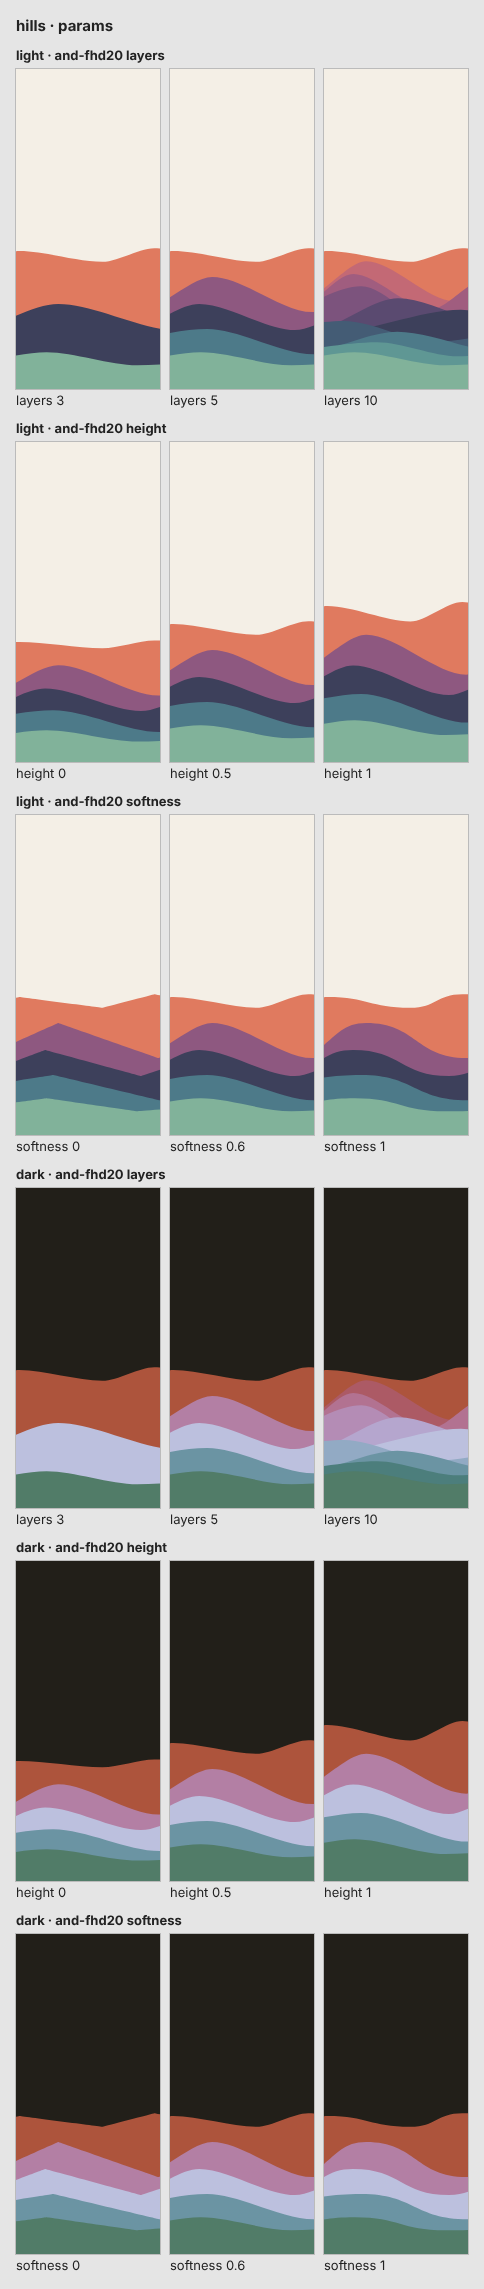
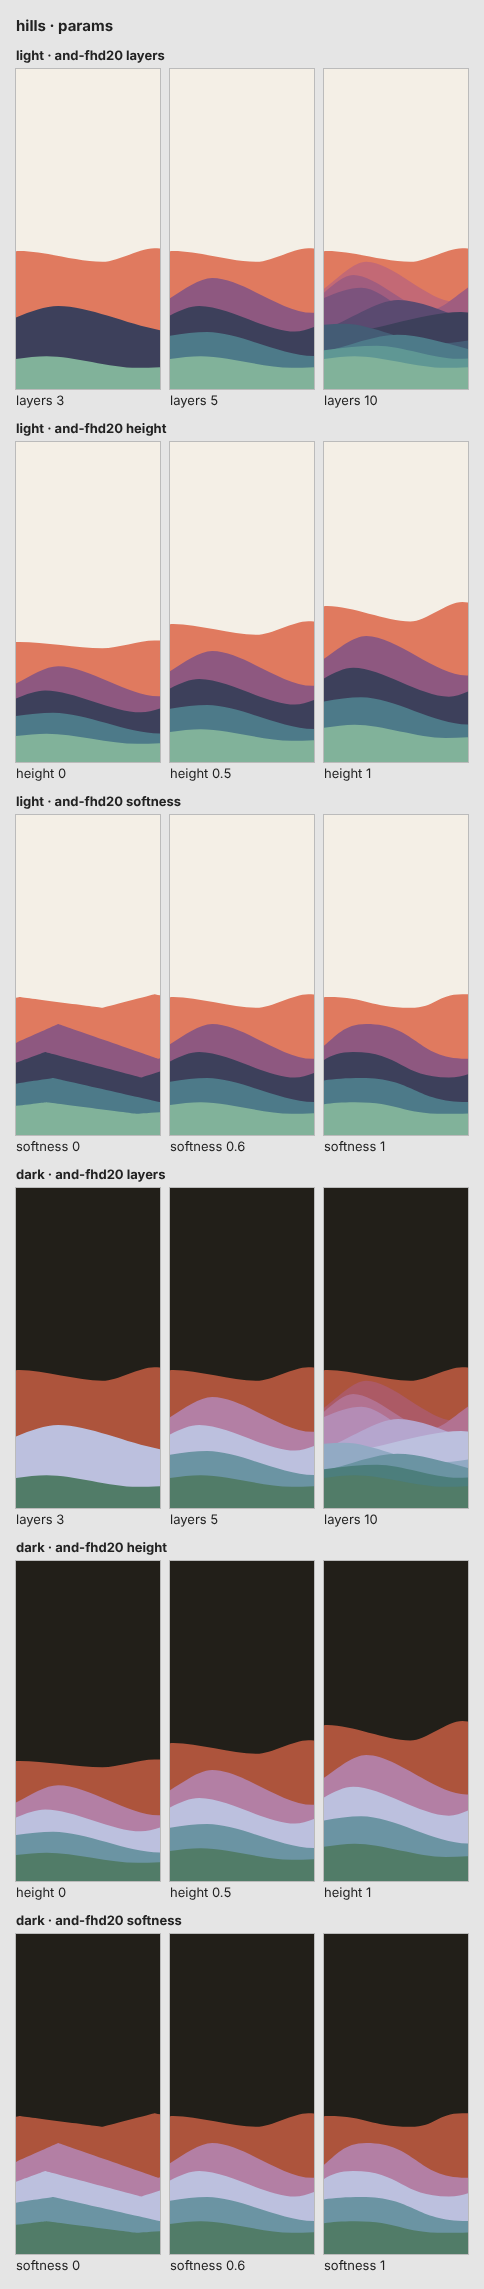
docs: update hills report and previews for FRONT_MAX 0.6 (PAT-10)
Re-measured seed variation on the 6 presets and at layers 3, front layer
coverage before and after, render times and file sizes, and regenerated
the three preview sheets. The report explains why two tests changed.

Claude-Session: https://claude.ai/code/session_019My7VFfQ18fX6NA4GWVR8x

diff --git a/docs/laporan/hills/laporan-hills.md b/docs/laporan/hills/laporan-hills.md
@@ -1,11 +1,13 @@
 # Laporan: pola `hills` (PAT-01)
 
-Draft PR: https://github.com/faljourney/falette/pull/7 (branch `claude/intelligent-newton-pt3d7g`, 5 commit dari main `853a835`). Semua rekomendasi di rencana disetujui:
+Draft PR: https://github.com/faljourney/falette/pull/7 (branch `claude/intelligent-newton-pt3d7g`, 7 commit dari main `853a835`). Semua rekomendasi di rencana disetujui:
 
 1. `softness` = kebulatan bentuk.
 2. Batas 30% berlaku di semua kanvas.
 3. Batas variasi seed khusus hills.
 4. Skrip pratinjau diperluas.
+
+Setelah meninjau pratinjau pertama, FaL meminta `FRONT_MAX` diturunkan dari 0,75 ke 0,6. Semua angka di laporan ini sudah mengikuti nilai 0,6; perbandingan sebelum dan sesudahnya ada di bagian [Revisi](#revisi-setelah-pratinjau-front_max-075--06).
 
 ---
 
@@ -18,7 +20,9 @@ Draft PR: https://github.com/faljourney/falette/pull/7 (branch `claude/intellige
 | 2 | `tests/patterns/hills.test.ts` (baru) | 34 tes, rinciannya di bawah. | PAT-10, ENG-08 |
 | 3 `e3a1bd2` | `tests/fixtures/snapshot-patterns.ts`, `tests/engine/__snapshots__/hills/` | `hills` masuk snapshot: 3 seed bersama × 6 preset × Terang dan Gelap (36 file), ditambah 10 kasus khusus di `ios-63` dan `mba-13` Terang (20 file). | ENG-08 |
 | 4 `e145607` | `scripts/preview-pattern.js` | Selain seed 42 di 6 preset, skrip kini juga menulis seed 1–8 di and-fhd20 dan mba-13, serta setiap parameter di nilai min, awal, dan maks di and-fhd20. Semua dalam Terang dan Gelap, plus satu lembar PNG per set, dirender dengan Chromium dari Playwright. | PAT-10, ENG-07 |
-| 5 | `docs/laporan/hills/` | Laporan ini dan tiga pratinjau PNG. | |
+| 5 `2812528` | `docs/laporan/hills/` | Laporan ini dan tiga pratinjau PNG. | |
+| 6 `c52372d` | `src/lib/patterns/hills.ts`, `tests/patterns/hills.test.ts`, 56 snapshot hills | Revisi: `FRONT_MAX` 0,75 → 0,6, dua tes yang terikat pada rentang lama, dan snapshot hills. | PAT-10, ENG-08 |
+| 7 | `docs/laporan/hills/` | Laporan dan ketiga pratinjau diperbarui untuk revisi. | |
 
 Tidak disentuh: engine, palet, arcs, PRD, AGENTS.md, dan bagian lain katalog. Tanda ✅ belum diberikan. Versi engine tetap 1, dan snapshot mock serta arcs tidak berubah.
 
@@ -41,7 +45,7 @@ Tidak disentuh: engine, palet, arcs, PRD, AGENTS.md, dan bagian lain katalog. Ta
 | --- | --- |
 | 1 | Lebar bukit |
 | 2 | Kedalaman lembah |
-| 3 | Tinggi lapisan depan |
+| 3 | Tinggi lapisan depan: 15–60% dari puncak belakang |
 | 4 | Taper |
 | 5–24 | Untuk 10 slot lapisan: posisi puncak utama dan satu seed anak (`mulberry32`) untuk ritme punggung lapisan itu |
 
@@ -51,12 +55,12 @@ Jumlah titik punggung mengikuti lebar kanvas, tapi semuanya diambil dari aliran 
 
 Punggung lapisan belakang tidak pernah turun di bawah 30% tinggi kanvas di kolom mana pun. Jadi seluruh 30% bagian bawah kanvas selalu tertutup bukit. Di potret, semua titik juga paling tinggi 50% tinggi kanvas, sehingga setengah atas tetap kosong untuk jam.
 
-Pengukuran di kode akhir mencakup 3.488.100 render:
+Pengukuran di kode akhir (sesudah revisi) mencakup 3.488.100 render:
 
 - **Ukuran:** 17 preset potret Lampiran A dan 5 ukuran Custom potret (320×7680, 1644×3840, 320×400, 1000×1001, 7679×7680).
 - **Seed:** 302 seed (1–300, `senja-teduh-42`, dan `480`).
 - **Parameter:** 525 set, yaitu `layers` 3–10 × setiap langkah `height` × `softness` 0 / 0,6 / 1, ditambah setiap langkah `softness`.
-- **Hasil:** punggung belakang terendah **31,35%**, dan titik tertinggi tepat **50,00%**.
+- **Hasil:** punggung belakang terendah **31,35%**, dan titik tertinggi tepat **50,00%**. Angkanya sama dengan sebelum revisi, karena lapisan belakang tidak bergantung pada `FRONT_MAX`.
 
 Semua titik kendali ikut diperiksa, karena kurva Bézier selalu berada di dalam titik kendalinya.
 
@@ -66,7 +70,7 @@ Semua titik kendali ikut diperiksa, karena kurva Bézier selalu berada di dalam 
 | --- | --- |
 | `npm run check` | ✅ 0 error, 0 peringatan |
 | `npm run lint` | ✅ bersih |
-| `npm test` (unit) | ✅ 280 lulus: 34 tes hills, 56 snapshot hills baru, 190 tes lama tidak berubah |
+| `npm test` (unit) | ✅ 280 lulus: 34 tes hills, 56 snapshot hills, dan 190 tes lama yang tidak berubah |
 | `npm test` (Playwright, `tests/home.e2e.ts`) | ✅ 1 lulus. Di container, Chromium bawaan disambungkan lewat path browser sementara di luar repo |
 | `npm run build` | ✅ berhasil |
 
@@ -78,10 +82,10 @@ Isi tes hills:
 - **Isi SVG:** hanya `rect` dan `path` dengan atribut presentasi; maksimal 2 desimal; tiap lapisan tertutup di tepi bawah, dan tidak ada titik di luar kanvas.
 - **Proporsi:** ukuran 2× menghasilkan geometri tepat 2×; layar 2× lebih lebar menambah bukit tanpa mengubah bukit yang sudah ada; batas 30% dan batas atas di potret, Custom potret, lanskap, dan persegi.
 - **Parameter:** `height` 0 = 38% dan `height` 1 = batas atas; `height` menaikkan setiap titik tanpa menggeser ke samping; `layers` mempertahankan lapisan belakang dan depan; `softness` hanya menekuk kurva di antara titik.
-- **Visibilitas:** setiap lapisan terlihat di puncak utamanya, minimal 1,1% tinggi bukit.
+- **Visibilitas:** setiap lapisan terlihat di puncak utamanya, minimal 1,8% tinggi bukit, yaitu (1 − `FRONT_MAX`)(1 − `TAPER`)/9.
 - **Seed dan waktu render:** variasi seed di 6 preset; setiap sumbu seed bergerak ke dua arah; batas waktu ENG-07.
 
-**Uji mutasi.** Delapan perubahan kode yang sengaja salah, dan semuanya tertangkap tes:
+**Uji mutasi.** Sembilan perubahan kode yang sengaja salah, diulang pada kode sesudah revisi, dan semuanya tertangkap tes:
 
 - lembah belakang yang mengabaikan batas 30%;
 - `DEEP_MAX` di atas 1;
@@ -90,7 +94,10 @@ Isi tes hills:
 - lapisan depan memakai slot lain;
 - taper 1;
 - tanpa pemotongan di tepi kiri;
-- rentang lapisan depan dipersempit.
+- `FRONT_MAX` dipersempit ke 0,5 (tertangkap tes sumbu seed);
+- `FRONT_MAX` dikembalikan ke 0,7 (tertangkap tes visibilitas).
+
+Sebelum revisi, mutasi kedelapan adalah `FRONT_MAX` 0,6. Nilai itu kini menjadi nilai resmi, jadi mutasinya diganti 0,5.
 
 ## Variasi seed (PAT-10)
 
@@ -98,41 +105,43 @@ Metrik grid sama dengan arcs: seed 1–30, 435 pasangan. Batas khusus hills yang
 
 | Preset, parameter awal | Median | Termirip | Di bawah 0,2 | Di bawah 0,3 |
 | --- | --- | --- | --- | --- |
-| and-fhd20 | 0,521 | 0,142 | 5 | 30 |
-| ios-63 | 0,523 | 0,144 | 6 | 32 |
-| ipad-pro-13 | 0,515 | 0,160 | 2 | 16 |
-| mba-13 | 0,538 | 0,236 | 0 | 4 |
-| desk-uw | 0,531 | 0,239 | 0 | 5 |
-| desk-5k | 0,532 | 0,239 | 0 | 6 |
+| and-fhd20 | 0,495 | 0,153 | 5 | 27 |
+| ios-63 | 0,496 | 0,153 | 5 | 25 |
+| ipad-pro-13 | 0,494 | 0,181 | 2 | 13 |
+| mba-13 | 0,521 | 0,271 | 0 | 5 |
+| desk-uw | 0,512 | 0,267 | 0 | 4 |
+| desk-5k | 0,517 | 0,254 | 0 | 4 |
 
-Margin tersempit ada di ios-63: 6 dari maksimal 8 pasangan di bawah 0,2. Sebagai pembanding, seed yang sama dengan `height` dinaikkan satu langkah berjarak 0,04–0,08.
+Semua preset lulus. Margin tersempit ada di and-fhd20 dan ios-63: 5 dari maksimal 8 pasangan di bawah 0,2, dan median 0,495 terhadap batas 0,45. Sebagai pembanding, seed yang sama dengan `height` dinaikkan satu langkah berjarak 0,04–0,08.
 
 **Titik lemah, tidak diuji dengan batas ini:**
 
 | Kasus | Median | Termirip | Di bawah 0,2 |
 | --- | --- | --- | --- |
-| `layers` 3 di ponsel | 0,39 | 0,06 | 43 (9,9%) |
-| `layers` 3 di lanskap | 0,40 | 0,14–0,16 | 9–11 |
-| `layers` 10, semua preset | 0,62–0,65 | ≥ 0,23 | 0 |
+| `layers` 3, and-fhd20 dan ios-63 | 0,352–0,354 | 0,066–0,070 | 51 (11,7%) |
+| `layers` 3, ipad-pro-13 | 0,361 | 0,083 | 28 (6,4%) |
+| `layers` 3, mba-13, desk-uw, desk-5k | 0,364–0,375 | 0,131–0,146 | 10–12 |
+| `layers` 10, semua preset | 0,626–0,646 | ≥ 0,274 | 0 |
 
-Pasangan termirip muncul saat lapisan depan tinggi: satu bukit besar di depan mendominasi gambar.
+Pasangan termirip kini adalah seed dengan tinggi lapisan depan yang hampir sama, baik tinggi maupun rendah. Contohnya seed 15 dan 19 (lapisan depan 0,58 dan 0,55 dari puncak belakang), serta seed 17 dan 21 (0,17 dan 0,23).
 
 ## Waktu render dan ukuran file (ENG-07: ≤ 50 ms laptop, ≤ 100 ms ponsel)
 
 | desk-5k (5120×2880) | Node, median 50 render | Node, terlama dari seed 1–200 | Chromium, CPU 4× lebih lambat | Chromium, CPU 6× lebih lambat | SVG seed 42 | SVG terbesar dari seed 1–200 |
 | --- | --- | --- | --- | --- | --- | --- |
-| Nilai awal (5; 0,5; 0,6) | 0,03–0,06 ms | 2,8 ms | median 0,1 ms, terlama 2,5 ms | median 0,1 ms, terlama 6 ms | 2,2 KB | 2,6 KB |
-| Nilai maksimum (10; 1; 1) | 0,05–0,11 ms | 0,7 ms | median 0,1 ms, terlama 2,6 ms | median 0,1 ms, terlama 6 ms | 4,0 KB | 5,0 KB |
+| Nilai awal (5; 0,5; 0,6) | 0,03–0,06 ms | 0,6 ms | median 0,1–0,2 ms, terlama 4,0 ms | median 0,1 ms, terlama 2,4 ms | 2,2 KB | 2,6 KB |
+| Nilai maksimum (10; 1; 1) | 0,05–0,08 ms | 0,5 ms | median 0,1 ms, terlama 1,7 ms | median 0,1 ms, terlama 2,4 ms | 4,0 KB | 5,0 KB |
 
 - **Kesimpulan:** jauh di bawah batas ENG-07, termasuk render terlama.
 - **Timer Chromium:** resolusinya 0,1 ms, jadi median di bawah itu tercatat 0,1 ms.
-- **Kasus terberat:** ukuran Custom 7680×320 (24:1) dengan 10 lapisan butuh 1,1 ms dan 37 KB, karena kanvas selebar itu berisi banyak bukit.
+- **Kasus terberat:** ukuran Custom 7680×320 (24:1) dengan 10 lapisan butuh 0,9 ms dan 37 KB, karena kanvas selebar itu berisi banyak bukit.
+- **Pengulangan:** semua angka di tabel ini diukur ulang sesudah revisi. Selisihnya dari pengukuran pertama hanya variasi mesin.
 - **Ukuran kode:** engine + hills setelah minify 6,5 KB, atau 3,3 KB gzip (engine + arcs: 3,1 KB gzip). JavaScript awal Home dan Create belum berubah, karena belum ada rute yang memuat pola.
 - **Sumber angka:** container dan Chromium headless, bukan perangkat asli.
 
 ## Pratinjau
 
-Semua pratinjau dibuat dengan `npm run preview:pattern -- hills`, memakai palet dan latar contoh Lampiran B.
+Semua pratinjau dibuat dengan `npm run preview:pattern -- hills`, memakai palet dan latar contoh Lampiran B. Ketiganya dibuat ulang sesudah revisi. `pratinjau-seed-42.png` ikut berubah, karena lapisan depan seed 42 juga bergeser.
 
 - [pratinjau-seed-42.png](pratinjau-seed-42.png): seed 42 di 6 preset perwakilan, Terang dan Gelap.
 - [variasi-seed.png](variasi-seed.png): seed 1–8 di and-fhd20 dan mba-13, Terang dan Gelap.
@@ -151,5 +160,57 @@ File SVG-nya tidak di-commit; skrip menulisnya ke `previews/hills/`, yang di-git
 
 - **`softness` 0** memberi sisi lurus dan puncak lancip, sehingga bukit lebih mirip pegunungan. Ini sesuai arti yang disetujui; mohon dinilai di `parameter.png`. Efeknya paling jelas di seed dengan bukit lebar.
 - **Skrip pratinjau** kini membutuhkan Chromium dari Playwright. Di komputermu cukup jalankan `npx playwright install chromium` sekali; langkah ini juga sudah dibutuhkan oleh `npm test`.
-- **Commit 2** sempat diperbaiki sebelum di-push: dua komentar konstanta (`FLOOR`, `TAPER`) diperjelas, tanpa perubahan kode.
+- **Commit 2** sempat diperbaiki sebelum di-push pertama kali: dua komentar konstanta (`FLOOR`, `TAPER`) diperjelas, tanpa perubahan kode. Revisi `FRONT_MAX` dibuat sebagai commit baru, tanpa menulis ulang riwayat yang sudah di-push.
 - **Lampiran A** masih menyebut `and-fhd20` termasuk yang paling tinggi, padahal `and-pixel` dan `and-15k` sedikit lebih tinggi. Tes hills memakai semua 17 preset potret, jadi tidak terpengaruh. PRD tidak kuubah.
+
+## Revisi setelah pratinjau: `FRONT_MAX` 0,75 → 0,6
+
+**Alasan dari FaL.** Di seed 1–30 dengan parameter awal, 11 seed punya bukit depan yang menutupi lebih dari separuh area bukit, sehingga lapisan lain menjadi tipis (seed 5, 7, dan 8).
+
+**Cara mengukur.** Luas lapisan depan dibagi luas seluruh bukit, dihitung di 400 kolom per kanvas. Lapisan depan dicat terakhir, jadi seluruh luas di bawah punggungnya terlihat. Hasil ini mereproduksi angka FaL tepat: 11 seed yang sama, yaitu 5, 7, 8, 9, 10, 15, 16, 19, 22, 26, dan 30, di keenam preset.
+
+| Preset | Seed > 50%, sebelum | Seed > 50%, sesudah | Terbesar, sebelum → sesudah | Median, sebelum → sesudah |
+| --- | --- | --- | --- | --- |
+| and-fhd20 | 11 | 4 (7, 8, 15, 19) | 66,8% → 53,6% | 35,6% → 30,3% |
+| ios-63 | 11 | 3 (8, 15, 19) | 66,7% → 53,5% | 35,5% → 30,2% |
+| ipad-pro-13 | 11 | 1 (15) | 64,3% → 51,7% | 34,0% → 29,0% |
+| mba-13 | 11 | 1 (15) | 67,0% → 54,0% | 34,9% → 29,7% |
+| desk-uw | 11 | 1 (15) | 63,5% → 51,0% | 33,8% → 28,8% |
+| desk-5k | 11 | 2 (15, 16) | 66,7% → 53,5% | 34,8% → 29,6% |
+
+Masih ada 1–4 seed yang sedikit di atas 50%, paling banyak 54%. Seed 15 adalah satu-satunya yang melewati 50% di semua preset. Menghapusnya sama sekali butuh `FRONT_MAX` yang lebih rendah lagi; itu tidak kulakukan karena tidak diminta.
+
+**Yang berubah di kode.** Hanya `FRONT_MAX` dan komentarnya: "low enough that the front layer seldom covers over half of the hills". Konstanta lain tetap.
+
+**Tes yang diubah.** Kedua perubahan ini karena kebutuhannya berubah, bukan supaya tes lulus:
+
+| Tes | Sebelum | Sesudah | Alasan |
+| --- | --- | --- | --- |
+| "moves every seed axis both ways": tinggi lapisan depan tertinggi di seed 1–30 | ≥ 0,65 | ≥ 0,52 | Rentang baru maksimal 0,6, jadi 0,65 mustahil dicapai. Ambang baru berada di 82% rentang, hampir sama dengan ambang lama (0,65 = 83% dari rentang 0,15–0,75). Terukur 0,583; sebelumnya 0,728. |
+| "shows every layer": langkah tertipis antarpuncak utama | (1 − 0,75)(1 − 0,6)/9 = 1,1% dari puncak belakang | (1 − 0,6)(1 − 0,6)/9 = 1,8% | Batas ini diturunkan dari `FRONT_MAX`, jadi tes kini mengikuti nilai yang berlaku. Tes menjadi lebih ketat, bukan lebih longgar. Batas lama juga tetap lulus. |
+
+Batas variasi seed (median ≥ 0,45, termirip ≥ 0,1, maksimal 2% di bawah 0,2) tidak diubah.
+
+**Snapshot.** Ke-56 snapshot hills berubah. Di semua file, `rect` latar dan punggung lapisan belakang identik dengan sebelumnya; yang bergeser hanya lapisan di depannya. Snapshot mock dan arcs tidak berubah. Dengan kedua perubahan tes di atas dan sebelum snapshot diperbarui, `CI=true npx vitest run` gagal tepat di 56 kasus snapshot hills, dan semua tes lain lulus.
+
+**Variasi seed, sebelum → sesudah.** Seed 1–30, 435 pasangan:
+
+| Preset | Median | Termirip | Di bawah 0,2 | Di bawah 0,3 |
+| --- | --- | --- | --- | --- |
+| and-fhd20 | 0,521 → 0,495 | 0,142 → 0,153 | 5 → 5 | 30 → 27 |
+| ios-63 | 0,523 → 0,496 | 0,144 → 0,153 | 6 → 5 | 32 → 25 |
+| ipad-pro-13 | 0,515 → 0,494 | 0,160 → 0,181 | 2 → 2 | 16 → 13 |
+| mba-13 | 0,538 → 0,521 | 0,236 → 0,271 | 0 → 0 | 4 → 5 |
+| desk-uw | 0,531 → 0,512 | 0,239 → 0,267 | 0 → 0 | 5 → 4 |
+| desk-5k | 0,532 → 0,517 | 0,239 → 0,254 | 0 → 0 | 6 → 4 |
+| `layers` 3, and-fhd20 | 0,394 → 0,352 | 0,061 → 0,070 | 43 → 51 | 127 → 152 |
+| `layers` 3, ios-63 | 0,395 → 0,354 | 0,059 → 0,066 | 43 → 51 | 126 → 151 |
+| `layers` 3, ipad-pro-13 | 0,392 → 0,361 | 0,099 → 0,083 | 24 → 28 | 108 → 136 |
+| `layers` 3, mba-13 | 0,402 → 0,375 | 0,156 → 0,139 | 11 → 12 | 74 → 93 |
+| `layers` 3, desk-uw | 0,395 → 0,364 | 0,152 → 0,146 | 9 → 10 | 66 → 93 |
+| `layers` 3, desk-5k | 0,400 → 0,373 | 0,142 → 0,131 | 9 → 12 | 80 → 94 |
+
+**Dampaknya:**
+
+- Dengan parameter awal, median turun 0,02–0,03, karena rentang tinggi lapisan depan (sumbu seed terkuat) menyempit 25%. Sebaliknya, pasangan termirip menjauh di semua preset, dan jumlah pasangan di bawah 0,3 turun di 5 dari 6 preset.
+- Dengan `layers` 3, variasinya melemah: median turun 0,03–0,04, dan di ponsel 51 pasangan (11,7%) berada di bawah 0,2. Seperti sebelumnya, ini tidak diuji dengan batas, tapi kucatat sebagai titik lemah.
